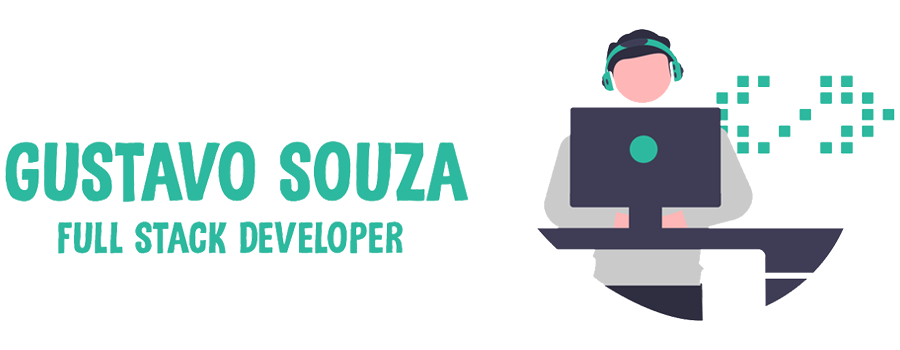
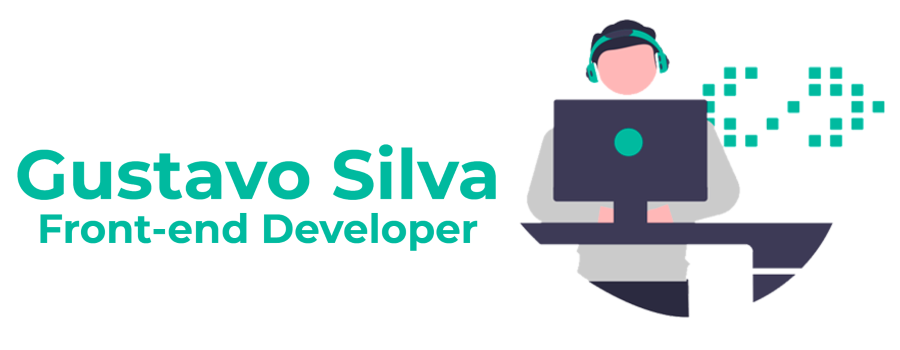
feat: Update infos/styles

Changed region(s): [[0.0, 0.0571, 0.9956, 0.9143], [0.0311, 0.6, 0.5289, 0.7429], [0.6844, 0.3714, 0.7467, 0.4571]]

diff --git a/README.md b/README.md
@@ -3,33 +3,33 @@
 </p>
 
 <p align="center">
-  <a href="https://portfolio-gustavoss.herokuapp.com/">
+  <a href="https://ssilvagustavo.vercel.app/">
      <img src="cover.png" alt="Cover" title="Gustavo Souza" border="0">
    </a>
 </p>
 
-
 ## Hi I'm Gustavo, Nice to meet you
-  I'm full stack developer, I'm studying about this area of programming and focusing on some specific tools. I love what I do and intend to go deeper and deeper into this amazing world 💖
-  
+
+Passionate front-end developer dedicated to expanding skills in web development, committed to delivering exceptional results and staying at the forefront of the industry. 🚀👨💻
+
 <p align="center">
-  <img src="https://capsule-render.vercel.app/api?type=cylinder&section=header&color=FFFFFF&height=20px">
-  <img src="https://capsule-render.vercel.app/api?type=egg&color=0:00ff87,100:60efff&text=Technologies&fontColor=00000&fontSize=40&animation=scaleIn" width="1500px">
-</p>
-<br>
-<p align="center">
-  <img src="https://capsule-render.vercel.app/api?type=rect&height=50&color=3E3B56&text=%20Studying%20&fontColor=FFFFFF&fontSize=40&animation=fadeIn&reversal=true&fontAlign=50&fontAlignY=70&textBg=true">
+  <img src="https://capsule-render.vercel.app/api?type=transparent&fontColor=00BA9F&text=Technologies&fontSize=40&desc=Languages%20and%20Frameworks&descAlignY=75&descAlign=52&descSize=15&animation=fadeIn" width="1500px">
 </p>
 <p align="center">
+  <img src="https://capsule-render.vercel.app/api?type=rect&height=50&color=272736&text=%20Experience%20&fontColor=00BA9F&fontSize=40&animation=fadeIn&fontAlign=50">
+</p>
+<p align="center">
+  <img src="https://img.shields.io/badge/TypeScript-007ACC?style=for-the-badge&logo=typescript&logoColor=white">
+  <img src="https://img.shields.io/badge/next.js-000000?style=for-the-badge&logo=nextdotjs&logoColor=white">
+  <img src="https://img.shields.io/badge/tailwindcss-%2338B2AC.svg?style=for-the-badge&logo=tailwind-css&logoColor=white">
   <img src="https://img.shields.io/badge/JavaScript-F7DF1E?style=for-the-badge&logo=javascript&logoColor=black">
-  <img src="https://img.shields.io/badge/Python-14354C?style=for-the-badge&logo=python&logoColor=white">
-  <img src="https://img.shields.io/badge/Node.js-43853D?style=for-the-badge&logo=node.js&logoColor=white">
   <img src="https://img.shields.io/badge/React-20232A?style=for-the-badge&logo=react&logoColor=61DAFB">
   <img src="https://img.shields.io/badge/CSS3-1572B6?style=for-the-badge&logo=css3&logoColor=white">
   <img src="https://img.shields.io/badge/HTML5-E34F26?style=for-the-badge&logo=html5&logoColor=white">
+  <img src="https://img.shields.io/badge/jquery-%230769AD.svg?style=for-the-badge&logo=jquery&logoColor=white">
+  <img src="https://img.shields.io/badge/Node.js-43853D?style=for-the-badge&logo=node.js&logoColor=white">
   <img src="https://img.shields.io/badge/MongoDB-4EA94B?style=for-the-badge&logo=mongodb&logoColor=white">
-  <img src="https://img.shields.io/badge/Heroku-430098?style=for-the-badge&logo=heroku&logoColor=white">
-  <img src="https://img.shields.io/badge/TypeScript-007ACC?style=for-the-badge&logo=typescript&logoColor=white">
+  <img src="https://img.shields.io/badge/Sass-CC6699?style=for-the-badge&logo=sass&logoColor=white">
 </p>
 <br>
 <p align="center">
@@ -37,16 +37,18 @@
 </p>
 <br>
 <p align="center">
-  <img src="https://capsule-render.vercel.app/api?type=rect&height=50&color=3E3B56&text=%20Interests%20&fontColor=FFFFFF&fontSize=40&animation=fadeIn&reversal=true&fontAlign=50&fontAlignY=70&textBg=true">
+  <img src="https://capsule-render.vercel.app/api?type=rect&height=50&color=272736&text=%20Interests%20&fontColor=00BA9F&fontSize=40&animation=fadeIn&fontAlign=50">
 </p>
 <p align="center">
+  <img src="https://img.shields.io/badge/redux-%23593d88.svg?style=for-the-badge&logo=redux&logoColor=white">
+  <img src="https://img.shields.io/badge/styled--components-DB7093?style=for-the-badge&logo=styled-components&logoColor=white">
   <img src="https://img.shields.io/badge/React_Native-20232A?style=for-the-badge&logo=react&logoColor=61DAFB">
+  <img src="https://img.shields.io/badge/Vue.js-35495E?style=for-the-badge&logo=vuedotjs&logoColor=4FC08D">
+  <img src="https://img.shields.io/badge/nestjs-%23E0234E.svg?style=for-the-badge&logo=nestjs&logoColor=white">
+  <img src="https://img.shields.io/badge/Gatsby-%23663399.svg?style=for-the-badge&logo=gatsby&logoColor=white">
   <img src="https://img.shields.io/badge/Angular-DD0031?style=for-the-badge&logo=angular&logoColor=white">
   <img src="https://img.shields.io/badge/AngularJS-E23237?style=for-the-badge&logo=angularjs&logoColor=white">
-  <img src="https://img.shields.io/badge/Sass-CC6699?style=for-the-badge&logo=sass&logoColor=white">
-  <img src="https://img.shields.io/badge/.NET-5C2D91?style=for-the-badge&logo=.net&logoColor=white">
-  <img src="https://img.shields.io/badge/Django-092E20?style=for-the-badge&logo=django&logoColor=white">
-  <img src="https://img.shields.io/badge/Flutter-02569B?style=for-the-badge&logo=flutter&logoColor=white">
+  <img src="https://img.shields.io/badge/Python-14354C?style=for-the-badge&logo=python&logoColor=white">
   <img src="https://img.shields.io/badge/Amazon_AWS-232F3E?style=for-the-badge&logo=amazon-aws&logoColor=white">
 </p>
 <br>
@@ -54,17 +56,18 @@
   <img src="https://capsule-render.vercel.app/api?type=shark&color=0:bf0fff,100:cbff49&height=16">
 </p>
 <br>
-<img src="https://capsule-render.vercel.app/api?type=egg&color=0:00ff87,100:60efff&text=Contacts&fontColor=00000&fontSize=40&animation=scaleIn" width="1500px">
+
+<p align="center">
+  <img src="https://capsule-render.vercel.app/api?type=transparent&fontColor=00BA9F&text=Contact&fontSize=40&desc=Links&descAlignY=75&descAlign=56&descSize=15&animation=fadeIn" width="1500px">
+</p>
+
 <p align="center">If you want to talk to me, don't be shy, send me a message or just say "hi" 😄</p>
 <p align="center">
-<a href="https://www.instagram.com/the_gusss/" alt="Instagram">
-  <img src="https://img.shields.io/badge/-Instagram-1C1C1C?style=for-the-badge&logo=Instagram&logoColor=00FFFF&link=https://www.instagram.com/the_gusss/"/>
+<a href="https://ssilvagustavo.vercel.app/" alt="Website">
+  <img src="https://img.shields.io/badge/-Website-272736?style=for-the-badge&logo=windows&logoColor=00FFFF&link=https://ssilvagustavo.vercel.app/">
 </a>
-<a href="https://www.linkedin.com/in/gustavo-souza-a833ba1a1/" alt="Linkedin">
-  <img src="https://img.shields.io/badge/-Linkedin-1C1C1C?style=for-the-badge&logo=Linkedin&logoColor=00FFFF&link=https://www.linkedin.com/in/gustavo-souza-a833ba1a1/"/>
-</a>
-<a href="https://portfolio-gustavoss.herokuapp.com" alt="Website">
-  <img src="https://img.shields.io/badge/-Website-1C1C1C?style=for-the-badge&logo=windows&logoColor=00FFFF&link=https://portfolio-gustavoss.herokuapp.com">
+<a href="https://www.linkedin.com/in/gustavosouzadev/" alt="Linkedin">
+  <img src="https://img.shields.io/badge/-Linkedin-272736?style=for-the-badge&logo=Linkedin&logoColor=00FFFF&link=https://www.linkedin.com/in/gustavo-souza-a833ba1a1/"/>
 </a>
 </p>
 <br>
@@ -73,17 +76,13 @@
 </p>
 <br>
 <p align="center">
-  <img src="https://capsule-render.vercel.app/api?type=rect&height=50&color=3E3B56&text=%20Stats%20&fontColor=FFFFFF&fontSize=40&animation=fadeIn&reversal=true&fontAlign=50&fontAlignY=70&textBg=true">
+  <img src="https://capsule-render.vercel.app/api?type=rect&height=50&color=272736&text=%20Stats%20&fontColor=00BA9F&fontSize=40&animation=fadeIn&fontAlign=50">
 </p>
 <br>
 <p align="center">
-  <img height="180rem" max-width="100%" src="https://github-readme-stats-gamma-lovat.vercel.app/api/top-langs/?username=SSilvaGustavo&layout=compact&theme=gotham&show_icons=true&include_all_commits=true"> 
-  <img height="180rem" max-width="100%" src="https://github-readme-stats-gamma-lovat.vercel.app/api?username=SSilvaGustavo&theme=gotham&show_icons=true&count_private=true&include_all_commits=true">
+  <img height="180rem" max-width="100%" src="https://github-readme-stats-gamma-lovat.vercel.app/api/top-langs/?username=SSilvaGustavo&layout=compact&show_icons=true&include_all_commits=true&bg_color=272736&title_color=00BA9F&icon_color=00BA9F&text_color=FFFFFF&border_color=00BA9F"> 
+  <img height="180rem" max-width="100%" src="https://github-readme-stats-gamma-lovat.vercel.app/api?username=SSilvaGustavo&show_icons=true&count_private=true&include_all_commits=true&bg_color=272736&title_color=00BA9F&icon_color=00BA9F&text_color=FFFFFF&border_color=00BA9F">
  </p>
-<br>
-<p align="center">
-  <img src="https://github.com/SSilvaGustavo/SSilvaGustavo/blob/output/github-contribution-grid-snake.svg">
-</p>
 <br>
 
 <p align="center">
